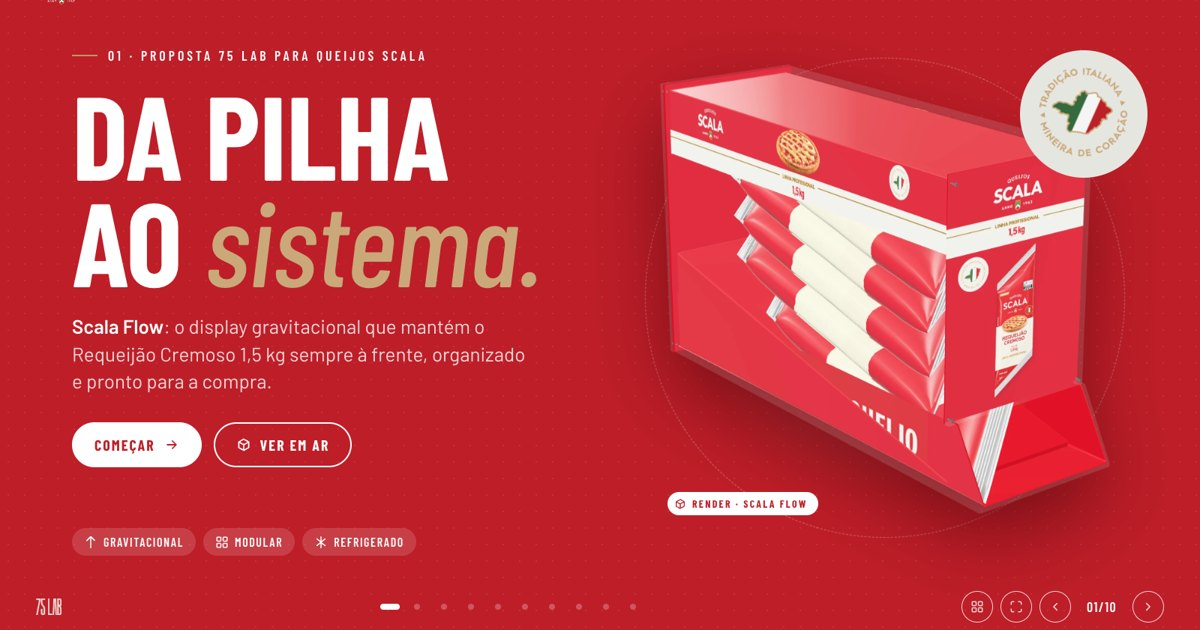
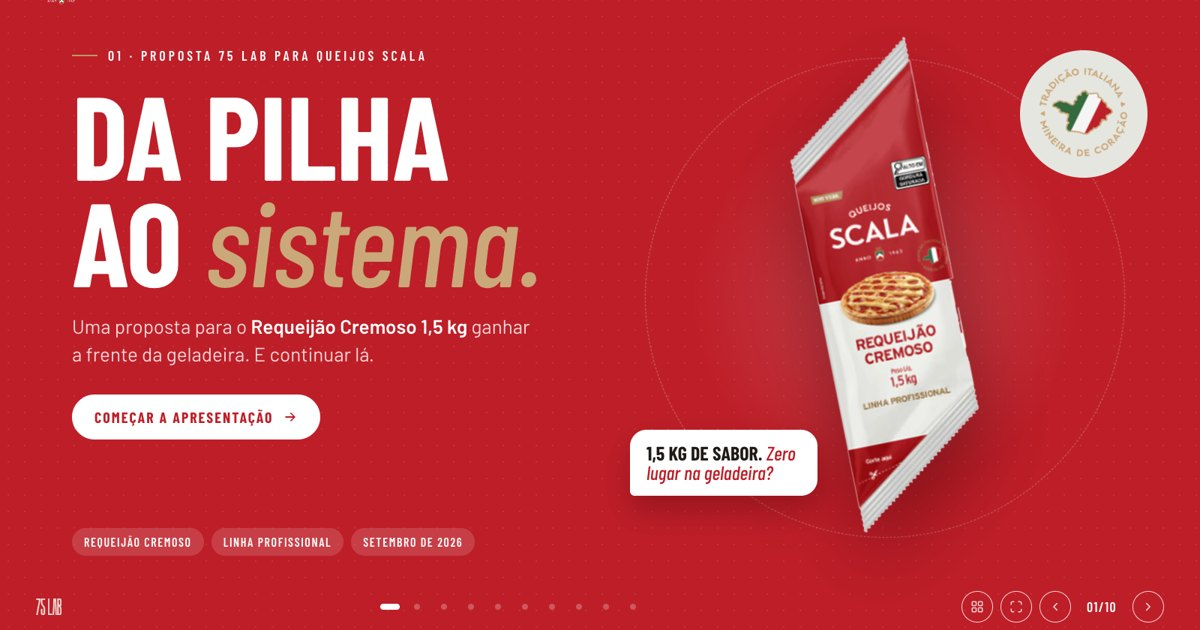
Capa sem a solução: embalagem do requeijão no lugar do render

diff --git a/index.html b/index.html
@@ -3,11 +3,11 @@
 <head>
 <meta charset="utf-8">
 <meta name="viewport" content="width=device-width, initial-scale=1, viewport-fit=cover">
-<title>Scala Flow · Queijos Scala × 75 LAB</title>
-<meta name="description" content="Scala Flow: o display gravitacional que mantém a bisnaga de 1,5 kg sempre à frente. Proposta 75 LAB para Queijos Scala.">
+<title>Da pilha ao sistema · Queijos Scala × 75 LAB</title>
+<meta name="description" content="Proposta 75 LAB para Queijos Scala: Requeijão Cremoso 1,5 kg na frente da geladeira.">
 <meta name="robots" content="noindex">
-<meta property="og:title" content="Scala Flow · Da pilha ao sistema">
-<meta property="og:description" content="Proposta 75 LAB para Queijos Scala: display gravitacional para o Requeijão Cremoso 1,5 kg.">
+<meta property="og:title" content="Da pilha ao sistema · Queijos Scala × 75 LAB">
+<meta property="og:description" content="Proposta 75 LAB para o Requeijão Cremoso 1,5 kg da Queijos Scala.">
 <meta property="og:image" content="https://projetos.75lab.com.br/scala-flow-75lab/assets/og.jpg">
 <meta name="theme-color" content="#BE1E28">
 <link rel="icon" href="assets/brasao.png">
@@ -119,8 +119,10 @@ img{display:block;max-width:100%}
 #s1 .hero{position:absolute;right:40px;top:92px;width:760px;height:720px}
 #s1 .ring{position:absolute;left:50%;top:50%;width:640px;height:640px;margin:-320px 0 0 -320px;border-radius:50%;border:1.5px dashed rgba(255,255,255,.35)}
 #s1 .ring2{position:absolute;left:50%;top:50%;width:520px;height:520px;margin:-260px 0 0 -260px;border-radius:50%;background:radial-gradient(circle,rgba(255,255,255,.18),rgba(255,255,255,0) 70%)}
-#s1 .hero .prod{position:absolute;left:50%;top:50%;width:600px;transform:translate(-50%,-48%);filter:drop-shadow(0 40px 50px rgba(60,0,5,.55));animation:float 6s ease-in-out infinite}
-@keyframes float{50%{transform:translate(-50%,-52%)}}
+#s1 .hero .prod{position:absolute;left:50%;top:50%;height:640px;transform:translate(-50%,-50%) rotate(-14deg);filter:drop-shadow(0 40px 50px rgba(60,0,5,.5));animation:float 6s ease-in-out infinite}
+@keyframes float{50%{transform:translate(-50%,-53%) rotate(-11deg)}}
+#s1 .hero .q{position:absolute;left:40px;bottom:96px;width:250px;background:#fff;color:var(--ink);border-radius:22px 22px 22px 6px;padding:18px 22px;font-family:"Barlow Condensed";font-weight:700;font-size:26px;line-height:1;text-transform:uppercase;box-shadow:0 20px 40px rgba(60,0,5,.3)}
+#s1 .hero .q em{font-style:italic;font-weight:500;text-transform:none;color:var(--red)}
 #s1 .selo{position:absolute;right:40px;top:40px;width:150px;animation:spin 40s linear infinite}
 #s1 .selo-wrap{position:absolute;right:30px;top:30px;width:170px;height:170px;border-radius:50%;background:var(--bege)}
 #s1 .selo-wrap img{width:150px;margin:10px}
@@ -421,23 +423,22 @@ body.down #cur{transform:scale(.85)}
   <div class="left">
     <div class="eyebrow" data-a style="transition-delay:.1s">01 · Proposta 75 LAB para Queijos Scala</div>
     <h1 class="h1" data-a style="transition-delay:.2s">Da pilha<br>ao <em>sistema.</em></h1>
-    <p class="lead" data-a style="transition-delay:.35s"><b>Scala Flow</b>: o display gravitacional que mantém o Requeijão Cremoso 1,5 kg sempre à frente, organizado e pronto para a compra.</p>
+    <p class="lead" data-a style="transition-delay:.35s">Uma proposta para o <b>Requeijão Cremoso 1,5 kg</b> ganhar a frente da geladeira. E continuar lá.</p>
     <div class="cta" data-a style="transition-delay:.5s">
-      <button class="btn white" data-go="1">Começar<svg viewBox="0 0 24 24" fill="none" stroke="currentColor" stroke-width="2.2" stroke-linecap="round" stroke-linejoin="round"><path d="M5 12h14M13 6l6 6-6 6"/></svg></button>
-      <button class="btn line" data-go="7"><svg viewBox="0 0 24 24" fill="none" stroke="currentColor" stroke-width="2" stroke-linecap="round" stroke-linejoin="round"><path d="M12 3l8 4.5v9L12 21l-8-4.5v-9z"/><path d="M4 7.5 12 12l8-4.5M12 12v9"/></svg>Ver em AR</button>
+      <button class="btn white" data-go="1">Começar a apresentação<svg viewBox="0 0 24 24" fill="none" stroke="currentColor" stroke-width="2.2" stroke-linecap="round" stroke-linejoin="round"><path d="M5 12h14M13 6l6 6-6 6"/></svg></button>
     </div>
   </div>
   <div class="hero" data-a="z" style="transition-delay:.25s">
     <div class="ring spin"></div>
     <div class="ring2"></div>
-    <img class="prod zoomable" src="assets/3d-34.webp" alt="Render do display Scala Flow">
-    <span class="rtag"><svg viewBox="0 0 24 24" fill="none" stroke="currentColor" stroke-width="2" stroke-linecap="round" stroke-linejoin="round"><path d="M12 3l8 4.5v9L12 21l-8-4.5v-9z"/><path d="M4 7.5 12 12l8-4.5M12 12v9"/></svg>Render · Scala Flow</span>
+    <img class="prod" src="assets/bisnaga-recorte.webp" alt="Requeijão Cremoso Scala 1,5 kg">
+    <div class="q">1,5 kg de sabor. <em>Onde ela fica na geladeira?</em></div>
     <div class="selo-wrap"><img class="spin" src="assets/scala-selo.svg" alt="Tradição italiana, mineira de coração"></div>
   </div>
   <div class="chips" data-a style="transition-delay:.6s">
-    <span class="chip"><svg viewBox="0 0 24 24" fill="none" stroke="currentColor" stroke-width="2" stroke-linecap="round" stroke-linejoin="round"><path d="M12 2v20M5 9l7-7 7 7"/></svg>Gravitacional</span>
-    <span class="chip"><svg viewBox="0 0 24 24" fill="none" stroke="currentColor" stroke-width="2" stroke-linecap="round" stroke-linejoin="round"><rect x="3" y="3" width="7" height="7" rx="1.5"/><rect x="14" y="3" width="7" height="7" rx="1.5"/><rect x="3" y="14" width="7" height="7" rx="1.5"/><rect x="14" y="14" width="7" height="7" rx="1.5"/></svg>Modular</span>
-    <span class="chip"><svg viewBox="0 0 24 24" fill="none" stroke="currentColor" stroke-width="2" stroke-linecap="round" stroke-linejoin="round"><path d="M12 2v20M4.9 6l14.2 12M19.1 6 4.9 18"/></svg>Refrigerado</span>
+    <span class="chip">Requeijão Cremoso</span>
+    <span class="chip">Linha Profissional</span>
+    <span class="chip">Setembro de 2026</span>
   </div>
 </section>
 
@@ -715,7 +716,7 @@ body.down #cur{transform:scale(.85)}
 <header class="chrome">
   <img class="logo" id="clogo" src="assets/scala-logo.svg" alt="Queijos Scala">
   <nav class="acts" id="acts"><button data-go="0">Começo</button><button data-go="3">Meio</button><button data-go="8">Fim</button></nav>
-  <div class="pair">Scala Flow <i></i> 75 LAB</div>
+  <div class="pair">Queijos Scala <i></i> 75 LAB</div>
 </header>
 <footer class="foot">
   <img class="lab" id="flogo" src="assets/75lab-wordmark-black.png" alt="75 LAB">

diff --git a/README.md b/README.md
@@ -17,7 +17,8 @@ Os espaços de render usam os arquivos de `assets/`. Para trocar, grave a imagem
 
 | Arquivo | Onde aparece |
 |---|---|
-| `3d-34.webp` | Capa e tela 05 (anatomia com os pontos numerados) |
+| `bisnaga-recorte.webp` | Capa (só a embalagem, a solução não aparece antes da tela 05) |
+| `3d-34.webp` | Tela 05 (anatomia com os pontos numerados) |
 | `3d-lateral.webp` | Tela 05, aba Lateral |
 | `render-frontal.webp` | Tela 05, aba Frente na geladeira |
 | `render-posterior.webp` | Tela 05, aba Abastecimento |
